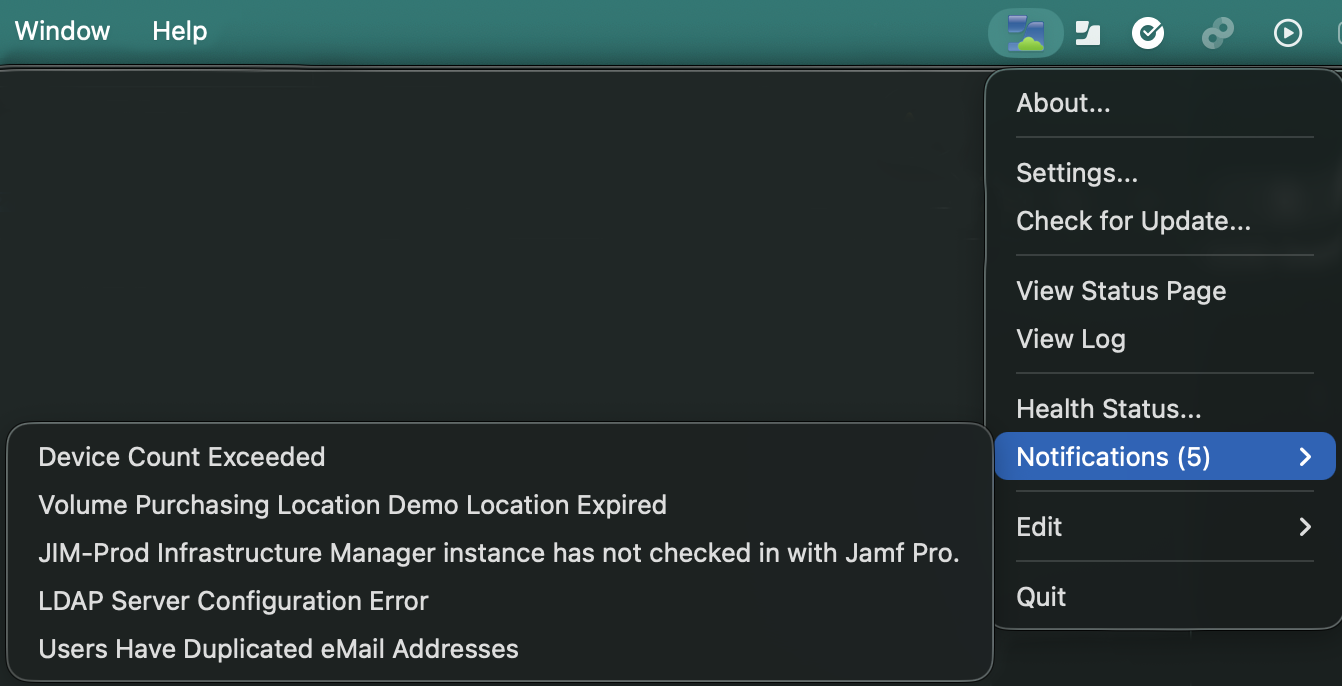
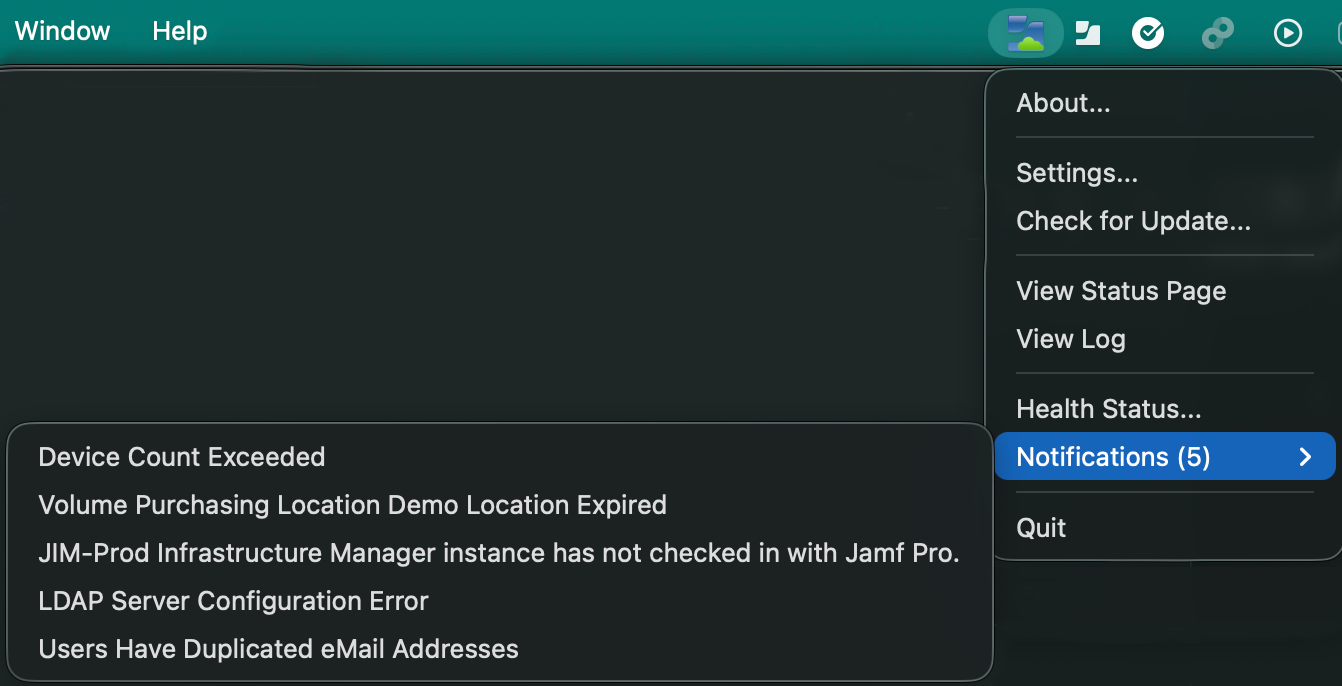
update
update images/readme

diff --git a/README.md b/README.md
@@ -28,7 +28,9 @@ Access Preferences from the menu bar icon.  Here you'll be able to set the follo
 - Information for your specific Jamf Cloud instance. Use either a local user account or API client.  Keyboard shortcuts for copy/paste do not function, however you can right-click a field to paste URL, username, API client...<br>
 - Most notification can be viewed using an account with no permissions set in Jamf Pro.  Using an account with ready-only on all objects ensure you'll see all notifications. If your cloud server does not utilize the standard HTTPS port (443) be sure to include the port you use in the URL.
 
-<img src="./jamfStatus/images/prefs.png" alt="notifications" width="600" /><br>
+<img src="./jamfStatus/images/generalPref.png" alt="General" width="300px" />
+<img src="./jamfStatus/images/serverPref.png" alt="Server" width="300px" />
+<img src="./jamfStatus/images/analyticsPref.png" alt="Analytics" width="300px" /><br><br><br>
 
 There are two different menu bar icon styles to choose from.  One uses colors to indicate the status and the other uses slashes.<br><br>
             <div style="margin-left: 55px;">
@@ -74,6 +76,12 @@ Thu Sep 17 20:25:30    Database Services - US: Degraded Performance
 Thu Sep 17 20:27:30 Notice
 Thu Sep 17 20:27:30 Jamf Cloud: All systems go.
 ```
+<br>
+
+## Login Item
+Ensure notifications are not missed. Add the application to Settings --> General --> Login Items & Extensions
+<img src="./jamfStatus/images/loginItem.png" alt="Login Items" width="660" /><br>
+
 
 ## Notifications for the following will be displayed:
 
